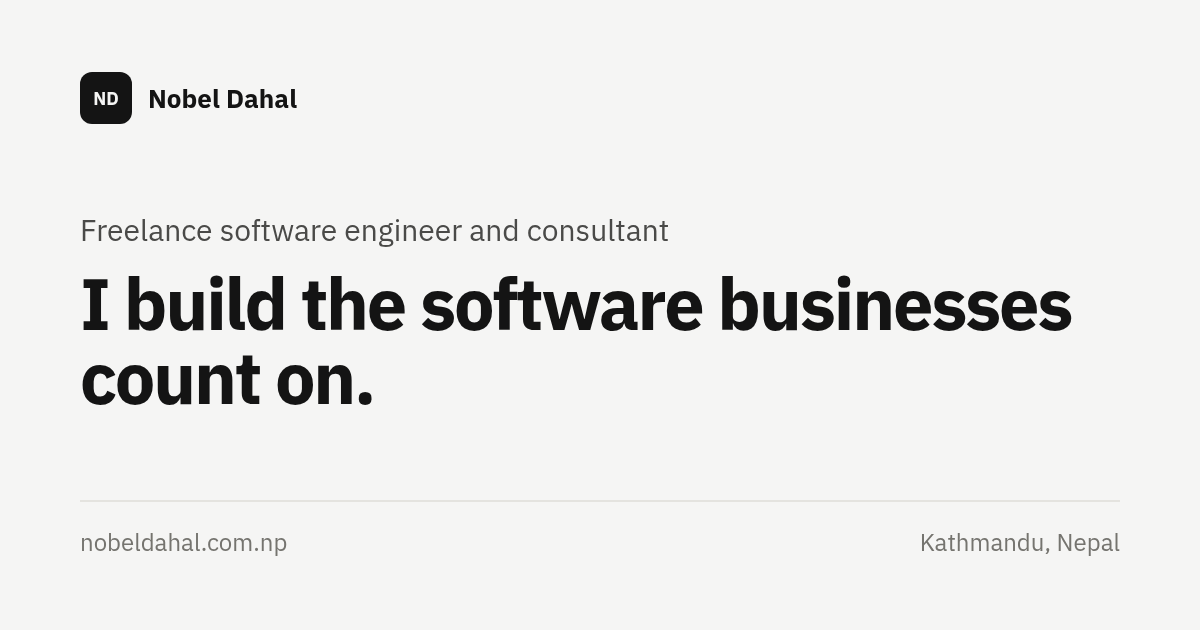
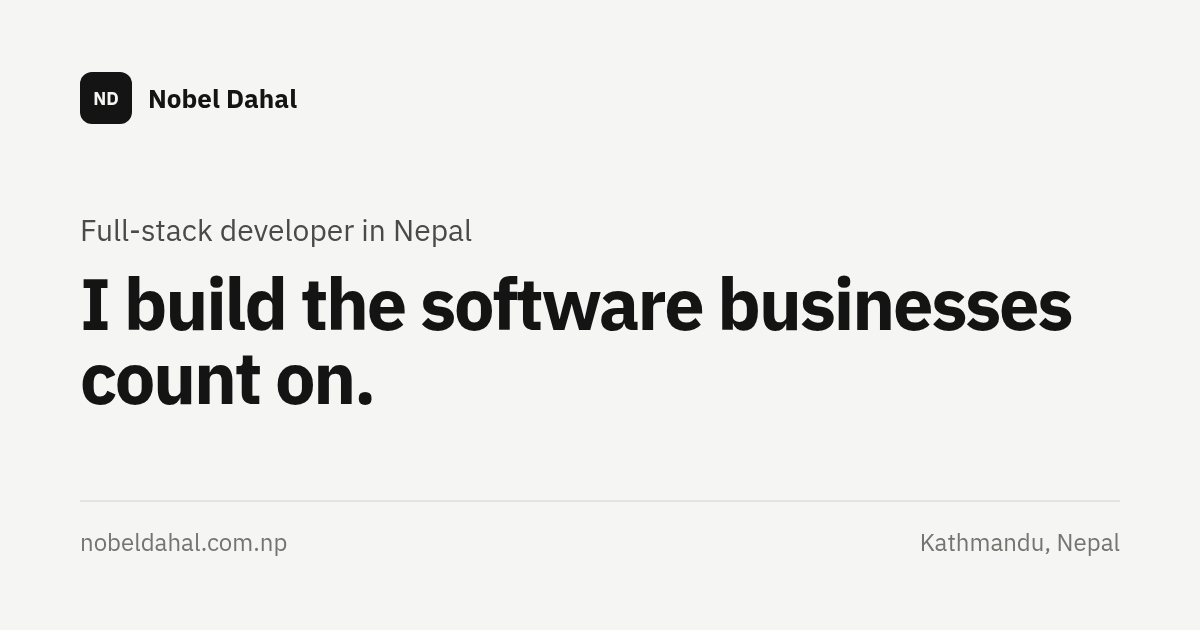
Keep the queries the old site ranked for; add a Hire page
Search Console shows nearly all clicks come from 'full stack / web / software developer in Nepal'. Bring those words back into titles, descriptions, copy and structured data, and add /hire with services, process and FAQ for hiring searches.

Claude-Session: https://claude.ai/code/session_013F1ePnQgGwVGBBEbcY3LNL

Changed region(s): [[0.0617, 0.3317, 0.555, 0.3921]]

diff --git a/src/pages/Hire.vue b/src/pages/Hire.vue
@@ -1,0 +1,142 @@
+<script setup>
+import AppIcon from '../components/AppIcon.vue'
+import { site, crumbs } from '../lib/site.js'
+import { useSeo } from '../lib/seo.js'
+
+const services = [
+  { name: 'Web applications and portals', text: 'Laravel and Vue, from a customer portal to a government website with payments.', proof: 'Kalimati Market', to: '/work/kalimati' },
+  { name: 'ERP and CRM systems', text: 'Operations, billing, payroll and the screens your team uses two hundred times a day.', proof: 'Kaede', to: '/work/kaede' },
+  { name: 'Payments and integrations', text: 'eSewa, Khalti and bank payments, Microsoft Dynamics 365, airline and courier APIs.', proof: 'GenericProperties', to: '/work/generic-properties' },
+  { name: 'WordPress plugins', text: 'Custom plugins and fixes, written properly. I spent a year building them for WPEverest.', proof: 'Everest Forms', to: '/writing/the-check-that-only-lived-in-the-browser' },
+  { name: 'Rescue and modernisation', text: 'Take over an old PHP or Laravel app and make it safe, fast and easy to change again.', proof: 'Laravel contributor', to: '/writing/a-date-that-did-not-fit' },
+  { name: 'Localisation', text: 'Nepali, English and Japanese, translated by someone who reads the result.', proof: 'Syncfusion in Nepali', to: '/writing/teaching-a-ui-library-nepali' },
+]
+
+const steps = [
+  { title: 'A call', text: 'You tell me the problem, not a feature list. Thirty minutes is usually enough.' },
+  { title: 'A written plan', text: 'Scope, milestones and either a fixed quote or a monthly rate, in plain words.' },
+  { title: 'Weekly demos', text: 'Working software every week, on your server, so nothing is a surprise.' },
+  { title: 'Launch, then stay', text: 'You get the code and the docs. I stay around for fixes and the next phase.' },
+]
+
+const faq = [
+  { q: 'Do you work with clients outside Nepal?', a: 'Yes. I have worked remotely for clients in the United States and in Nepal. Kathmandu is UTC+5:45, which overlaps the working day in Asia, Australia and the Gulf, and European mornings.' },
+  { q: 'Can you take over an existing project?', a: 'Yes. I start by reading the code and the data, then write down what is risky and what is fine before changing anything.' },
+  { q: 'Which technologies do you use?', a: 'Mostly PHP and Laravel, Vue, Node.js, PostgreSQL and MySQL, on Linux and Docker. WordPress when it is the right tool, and Microsoft Dynamics 365 when the client already runs on it.' },
+  { q: 'Do you work with agencies?', a: 'Yes, as a contractor on your team or as the developer behind your client work, under your brand if you prefer.' },
+  { q: 'How much does it cost?', a: 'It depends on the scope. After the first call you get a fixed quote for a defined project, or a monthly rate for ongoing work.' },
+]
+
+useSeo({
+  title: 'Hire a full-stack developer in Nepal',
+  description: 'Hire Nobel Dahal, a freelance full-stack web developer in Kathmandu, Nepal: Laravel and Vue web apps, ERP and CRM systems, payments and WordPress plugins.',
+  path: '/hire',
+  ld: [
+    {
+      '@context': 'https://schema.org', '@type': 'ProfessionalService', name: 'Nobel Dahal, full-stack developer',
+      url: `${site.url}/hire`, email: site.email, image: `${site.url}/og/hire.png`,
+      founder: { '@id': `${site.url}/#person` }, provider: { '@id': `${site.url}/#person` },
+      address: { '@type': 'PostalAddress', addressLocality: 'Kathmandu', addressCountry: 'NP' },
+      areaServed: [{ '@type': 'Country', name: 'Nepal' }, 'Worldwide'],
+      knowsLanguage: ['en', 'ne'],
+      hasOfferCatalog: { '@type': 'OfferCatalog', name: 'Services', itemListElement: services.map((s) => ({ '@type': 'Offer', itemOffered: { '@type': 'Service', name: s.name, description: s.text } })) },
+    },
+    { '@context': 'https://schema.org', '@type': 'FAQPage', mainEntity: faq.map((f) => ({ '@type': 'Question', name: f.q, acceptedAnswer: { '@type': 'Answer', text: f.a } })) },
+    crumbs([{ name: 'Hire', path: '/hire' }]),
+  ],
+})
+</script>
+
+<template>
+  <div class="wrap page">
+    <header class="head">
+      <p class="eyebrow">Freelance · Kathmandu, Nepal · UTC+5:45</p>
+      <h1 class="display">Hire a full-stack developer in Nepal</h1>
+      <p class="lede">I'm Nobel. I build web applications and business systems for companies in Nepal and abroad, from the database to the screen, and I stay to run them.</p>
+      <div class="cta">
+        <a class="btn btn--solid" :href="`mailto:${site.email}?subject=Project%20enquiry`"><AppIcon name="mail" /> {{ site.email }}</a>
+        <a class="btn" :href="site.cv" download><AppIcon name="download" /> Résumé</a>
+      </div>
+    </header>
+
+    <section aria-labelledby="what" class="block">
+      <h2 id="what" class="h">What I build</h2>
+      <ul class="services">
+        <li v-for="s in services" :key="s.name">
+          <h3>{{ s.name }}</h3>
+          <p>{{ s.text }}</p>
+          <RouterLink :to="s.to" class="proof">{{ s.proof }} <AppIcon name="arrow" /></RouterLink>
+        </li>
+      </ul>
+    </section>
+
+    <section aria-labelledby="how" class="block">
+      <h2 id="how" class="h">How it goes</h2>
+      <ol class="steps">
+        <li v-for="(s, i) in steps" :key="s.title">
+          <span class="n mono">{{ String(i + 1).padStart(2, '0') }}</span>
+          <h3>{{ s.title }}</h3>
+          <p>{{ s.text }}</p>
+        </li>
+      </ol>
+    </section>
+
+    <section aria-labelledby="why" class="block why">
+      <h2 id="why" class="h">Why me</h2>
+      <ul class="checks">
+        <li><AppIcon name="check" /> Shipping production software since 2018</li>
+        <li><AppIcon name="check" /> Built Kaede, an ERP for freight forwarders</li>
+        <li><AppIcon name="check" /> Sole developer of Kalimati Market's platform</li>
+        <li><AppIcon name="check" /> Laravel contributor, and found security bugs in WordPress plugins</li>
+      </ul>
+    </section>
+
+    <section aria-labelledby="faq" class="block">
+      <h2 id="faq" class="h">Questions</h2>
+      <div class="faq">
+        <details v-for="f in faq" :key="f.q">
+          <summary>{{ f.q }}</summary>
+          <p>{{ f.a }}</p>
+        </details>
+      </div>
+    </section>
+
+    <section class="end">
+      <h2 class="end__t">Tell me what you're building.</h2>
+      <a class="btn btn--solid" :href="`mailto:${site.email}?subject=Project%20enquiry`"><AppIcon name="mail" /> Email me</a>
+    </section>
+  </div>
+</template>
+
+<style scoped>
+.page { padding-block: 64px 96px; display: grid; gap: 72px; }
+.head { display: grid; gap: 20px; max-width: 760px; }
+.cta { display: flex; flex-wrap: wrap; gap: 12px; margin-top: 4px; }
+.block { display: grid; gap: 24px; }
+.h { font-size: 14px; font-weight: 600; color: var(--ui-ink-faint); }
+.services { display: grid; grid-template-columns: repeat(3, minmax(0, 1fr)); border-top: 1px solid var(--ui-border); }
+.services li { display: grid; gap: 8px; align-content: start; padding: 24px 24px 28px 0; border-bottom: 1px solid var(--ui-border); }
+.services li:not(:nth-child(3n + 1)) { padding-left: 24px; border-left: 1px solid var(--ui-border); }
+.services h3, .steps h3 { font-size: 18px; font-weight: 700; }
+.services p, .steps p { color: var(--ui-ink-soft); }
+.proof { display: inline-flex; align-items: center; gap: 6px; width: fit-content; margin-top: 4px; font-size: 14px; font-weight: 600; text-decoration: none; }
+.proof:hover { text-decoration: underline; }
+.steps { margin: 0; padding: 0; list-style: none; display: grid; grid-template-columns: repeat(4, minmax(0, 1fr)); gap: 32px; }
+.steps li { display: grid; gap: 8px; align-content: start; }
+.n { font-size: 12px; color: var(--ui-ink-faint); }
+.why .checks { font-size: 17px; color: var(--ui-ink); gap: 14px 40px; }
+.faq { display: grid; border-top: 1px solid var(--ui-border); max-width: 820px; }
+.faq details { border-bottom: 1px solid var(--ui-border); }
+.faq summary { cursor: pointer; padding: 18px 0; font-size: 17px; font-weight: 600; list-style: none; display: flex; justify-content: space-between; gap: 16px; }
+.faq summary::after { content: '+'; color: var(--ui-ink-faint); font-weight: 400; }
+.faq details[open] summary::after { content: '−'; }
+.faq details p { padding: 0 0 20px; color: var(--ui-ink-soft); max-width: 68ch; }
+.end { display: flex; flex-wrap: wrap; align-items: center; justify-content: space-between; gap: 20px; padding-top: 40px; border-top: 1px solid var(--ui-border); }
+.end__t { font-size: clamp(24px, 3vw, 34px); font-weight: 700; letter-spacing: -0.02em; }
+@media (max-width: 991.98px) {
+  .services { grid-template-columns: minmax(0, 1fr); }
+  .services li, .services li:not(:nth-child(3n + 1)) { padding: 20px 0; border-left: 0; }
+  .steps { grid-template-columns: 1fr 1fr; }
+}
+@media (max-width: 767.98px) { .page { padding-block: 40px 64px; gap: 56px; } .steps { grid-template-columns: 1fr; } }
+</style>

diff --git a/src/lib/site.js b/src/lib/site.js
@@ -1,7 +1,7 @@
 export const site = {
   url: 'https://nobeldahal.com.np',
   name: 'Nobel Dahal',
-  role: 'Freelance software engineer and consultant',
+  role: 'Full-stack developer and software engineer',
   place: 'Kathmandu, Nepal',
   email: 'nobel@dahal.tech',
   cv: '/download/resume.pdf',
@@ -61,14 +61,15 @@ export const personLd = {
   familyName: 'Dahal',
   url: site.url,
   image: `${site.url}/og/default.png`,
-  jobTitle: 'Freelance Software Engineer and Consultant',
-  description: 'Full-stack software engineer in Kathmandu, Nepal, building ERP and CRM systems with Laravel and Vue.',
+  jobTitle: 'Full-Stack Developer and Software Engineer',
+  hasOccupation: { '@type': 'Occupation', name: 'Full-stack web developer', occupationLocation: { '@type': 'Country', name: 'Nepal' }, skills: 'Laravel, PHP, Vue.js, Node.js, PostgreSQL, MySQL, WordPress, ERP, CRM' },
+  description: 'Full-stack web developer and software engineer in Kathmandu, Nepal, building ERP, CRM and web applications with Laravel and Vue.',
   email: `mailto:${site.email}`,
   address: { '@type': 'PostalAddress', addressLocality: 'Kathmandu', addressRegion: 'Bagmati', addressCountry: 'NP' },
   alumniOf: { '@type': 'CollegeOrUniversity', name: 'Himalaya College of Engineering' },
   sameAs: [site.github, site.linkedin],
   knowsLanguage: ['en', 'ne'],
-  knowsAbout: ['Laravel', 'PHP', 'Vue.js', 'Node.js', 'PostgreSQL', 'ERP systems', 'CRM systems', 'Air cargo software', 'IATA Cargo-XML', 'Microsoft Dynamics 365', 'DevOps'],
+  knowsAbout: ['Full-stack web development', 'Web application development', 'WordPress plugin development', 'Payment gateway integration (eSewa, Khalti)', 'Laravel', 'PHP', 'Vue.js', 'Node.js', 'PostgreSQL', 'ERP systems', 'CRM systems', 'Air cargo software', 'IATA Cargo-XML', 'Microsoft Dynamics 365', 'DevOps'],
 }
 
 export const websiteLd = {

diff --git a/src/pages/Home.vue b/src/pages/Home.vue
@@ -7,7 +7,7 @@ import { site, personLd, websiteLd } from '../lib/site.js'
 import { useSeo } from '../lib/seo.js'
 
 useSeo({
-  description: 'Nobel Dahal, freelance software engineer and consultant in Kathmandu, Nepal. ERPs and CRMs in Laravel and Vue, including Kaede for freight forwarders.',
+  description: 'Nobel Dahal is a full-stack web developer and software engineer in Kathmandu, Nepal, building ERP, CRM and web applications in Laravel and Vue.',
   ld: [personLd, websiteLd],
 })
 const shown = ref(work[0])
@@ -17,9 +17,9 @@ const shown = ref(work[0])
   <div class="home">
     <section class="hero wrap">
       <div class="hero__copy">
-        <p class="eyebrow">Freelance software engineer and consultant · Kathmandu</p>
+        <p class="eyebrow">Full-stack developer and consultant · Kathmandu, Nepal</p>
         <h1 class="display">I build the software businesses count on.</h1>
-        <p class="lede">Mostly ERPs and CRMs, from the database up. These days that means Kaede, an ERP that learns how a freight forwarder works.</p>
+        <p class="lede">Web applications, ERPs and CRMs, from the database up. These days that means Kaede, an ERP that learns how a freight forwarder works.</p>
         <div class="hero__cta">
           <RouterLink class="btn btn--solid" :to="`/work/${work[0].slug}`">See how Kaede works <AppIcon name="arrow" /></RouterLink>
           <a class="btn" :href="site.cv" download><AppIcon name="download" /> Résumé</a>

diff --git a/src/pages/About.vue b/src/pages/About.vue
@@ -18,7 +18,7 @@ useSeo({
       <div class="head__main">
       <h1 class="display">About</h1>
       <div class="lede intro">
-        <p>I'm Nobel. I studied computer engineering in Kathmandu and have been shipping software for businesses since 2018: WordPress plugins, a government market's website, a US brokerage's CRM, and now an ERP for air cargo.</p>
+        <p>I'm Nobel, a full-stack developer in Kathmandu, Nepal. I studied computer engineering here and have been shipping web applications and software for businesses since 2018: WordPress plugins, a government market's website, a US brokerage's CRM, and now an ERP for air cargo.</p>
         <p>I like the unglamorous parts. Migrations, audit logs, the form someone fills in two hundred times a day.</p>
       </div>
       <div class="cta">
@@ -28,7 +28,7 @@ useSeo({
       </div>
       <dl class="facts">
         <div><dt>Based in</dt><dd>Kathmandu, Nepal <span class="soft">· UTC+5:45</span></dd></div>
-        <div><dt>Working as</dt><dd>Freelance software engineer and consultant</dd></div>
+        <div><dt>Working as</dt><dd>Freelance full-stack developer and consultant</dd></div>
         <div><dt>Shipping since</dt><dd>2018</dd></div>
         <div><dt>Speaks</dt><dd>English, Nepali</dd></div>
         <div><dt>Builds with</dt><dd>Laravel, Vue, PostgreSQL</dd></div>

diff --git a/vite.config.js b/vite.config.js
@@ -18,7 +18,7 @@ function writeLlms({ work, posts }) {
   const lines = [
     '# Nobel Dahal',
     '',
-    '> Freelance software engineer and consultant in Kathmandu, Nepal. Builds ERP, CRM and operations software end to end with Laravel, Vue and PostgreSQL. Creator of Kaede, an ERP for freight forwarders. Laravel contributor. Contact: nobel@dahal.tech',
+    '> Full-stack web developer and software engineer in Kathmandu, Nepal, working freelance. Builds web applications, ERP, CRM and operations software end to end with Laravel, Vue and PostgreSQL. Creator of Kaede, an ERP for freight forwarders. Laravel contributor. Contact: nobel@dahal.tech',
     '',
     '## Case studies',
     ...work.map((w) => `- [${w.title}](${SITE}${w.path}): ${w.summary}`),
@@ -28,6 +28,7 @@ function writeLlms({ work, posts }) {
     '',
     '## More',
     `- [All work since 2017](${SITE}/work/)`,
+    `- [Hire: services, process and FAQ](${SITE}/hire)`,
     `- [About, experience, open source and certifications](${SITE}/about)`,
     `- [Résumé (PDF)](${SITE}/download/resume.pdf)`,
     '- [GitHub](https://github.com/coderkoala)',

diff --git a/src/components/SiteNav.vue b/src/components/SiteNav.vue
@@ -27,9 +27,10 @@ function toggle() {
         <RouterLink to="/work/">Work</RouterLink>
         <RouterLink to="/writing/">Writing</RouterLink>
         <RouterLink to="/about">About</RouterLink>
+        <RouterLink to="/hire">Hire</RouterLink>
       </nav>
       <div class="nav__end">
-        <a class="btn btn--solid btn--sm nav__cta" :href="`mailto:${site.email}`">Get in touch</a>
+        <RouterLink class="btn btn--solid btn--sm nav__cta" to="/hire">Hire me</RouterLink>
         <button class="iconbtn" type="button" @click="toggle" :aria-label="dark ? 'Use light theme' : 'Use dark theme'">
           <AppIcon :name="dark ? 'sun' : 'moon'" />
         </button>

diff --git a/src/lib/seo.js b/src/lib/seo.js
@@ -3,7 +3,7 @@ import { site } from './site.js'
 
 // One call per page: title, description, canonical, Open Graph, Twitter, JSON-LD.
 export function useSeo({ title, description, path = '/', type = 'website', image, ld = [], published, noindex }) {
-  const full = title ? `${title} · ${site.name}` : `${site.name} · Freelance software engineer in Kathmandu, Nepal`
+  const full = title ? `${title} · ${site.name}` : `${site.name} · Full-stack developer in Nepal`
   const url = site.url + (path === '/' ? '/' : path)
   const og = site.url + (image || `/og${path === '/' ? '/default' : path.replace(/\/$/, '')}.png`)
   const graphs = Array.isArray(ld) ? ld : [ld]

diff --git a/src/routes.js b/src/routes.js
@@ -4,6 +4,7 @@ export const routes = [
   { path: '/work/:slug', component: () => import('./pages/Project.vue') },
   { path: '/writing/', component: () => import('./pages/Writing.vue') },
   { path: '/writing/:slug', component: () => import('./pages/Post.vue') },
+  { path: '/hire', component: () => import('./pages/Hire.vue') },
   { path: '/about', component: () => import('./pages/About.vue') },
   { path: '/:rest(.*)*', component: () => import('./pages/NotFound.vue') },
 ]
